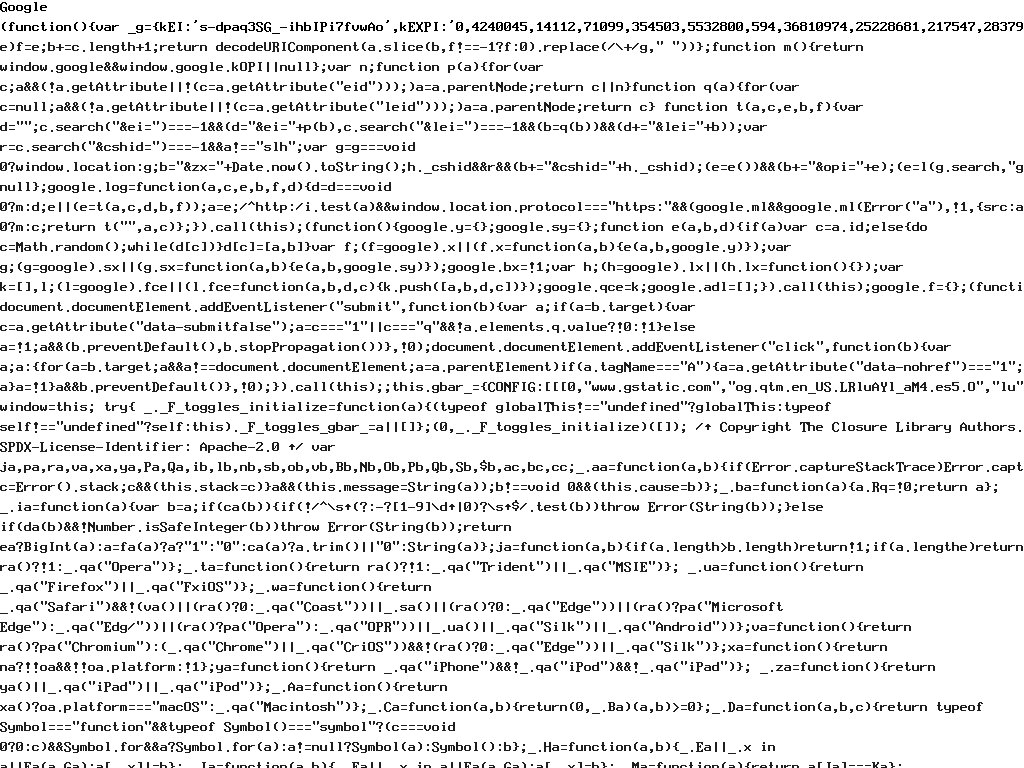
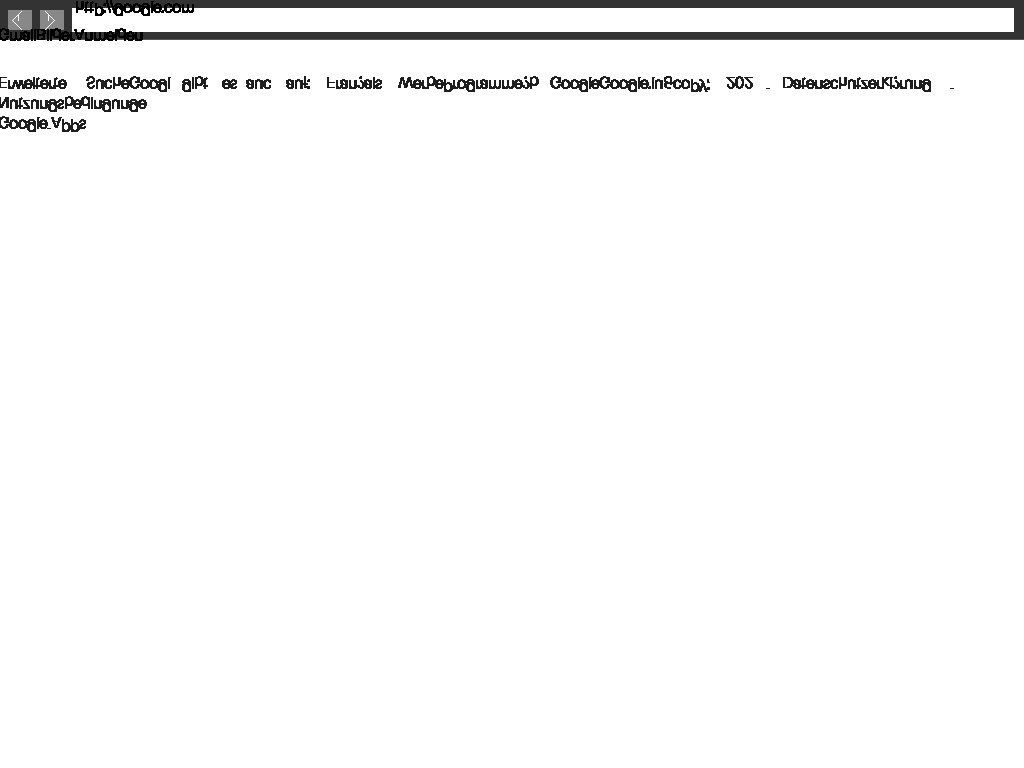
Fix renderer hiding script/style content, add browser UI to screenshots
- Add visible_text() to Node that skips script/style/head/title/meta/link/noscript
- Use visible_text() in layout_inline_children instead of text() to prevent
  JavaScript/CSS source code from leaking into rendered page content
- In layout_node, skip text nodes inside non-visible elements (zero-height boxes)
- In layout_node, skip element nodes for script/style/head/title/meta/link/noscript
  (zero-height boxes, no recursion into children)
- Add draw_browser_ui() to renderer: dark gray top bar with back/forward buttons
  and white address bar showing the URL
- Add screenshot_url_ member and set_screenshot_url() setter to Renderer
- render_to_ppm() now draws UI bar then renders content with y-offset of 40px
- main.cpp passes URL to renderer before taking screenshot
- New screenshots confirm: no JS/CSS code visible, browser UI present

diff --git a/src/renderer.cpp b/src/renderer.cpp
@@ -1456,6 +1456,64 @@ void Renderer::render_to_stdout(const Box& root) {
 // with: convert screenshot.ppm screenshot.png
 // =========================================================================
 
+// =========================================================================
+// draw_browser_ui - Draw browser chrome (address bar, nav buttons)
+// =========================================================================
+// TEACHING NOTE: A real browser has UI elements around the page content:
+// tab bar, address bar, back/forward buttons, menu, etc. For screenshots,
+// we draw a simplified browser frame so the screenshot looks like a browser
+// window, not just a raw page render.
+// =========================================================================
+
+void Renderer::draw_browser_ui(int width, int ui_height) {
+    // Top bar background: dark gray (#333333)
+    RenderColor bar_bg(0x33, 0x33, 0x33);
+    fill_rect(0, 0, width, ui_height, bar_bg);
+
+    // Back button (left side): light gray rect at x=8
+    RenderColor btn_color(0x88, 0x88, 0x88);
+    fill_rect(8, 10, 24, 20, btn_color);
+    // Draw a left-pointing arrow in white inside the back button
+    RenderColor arrow_white(255, 255, 255);
+    for (int i = 0; i < 10; i++) {
+        put_pixel_internal(12 + i, 20 - i, arrow_white);
+        put_pixel_internal(12 + i, 20 + i, arrow_white);
+    }
+    for (int i = 0; i < 6; i++) {
+        put_pixel_internal(18, 20 - 5 + i, arrow_white);
+    }
+
+    // Forward button: light gray rect at x=40
+    fill_rect(40, 10, 24, 20, btn_color);
+    // Draw a right-pointing arrow in white inside the forward button
+    for (int i = 0; i < 10; i++) {
+        put_pixel_internal(54 - i, 20 - i, arrow_white);
+        put_pixel_internal(54 - i, 20 + i, arrow_white);
+    }
+    for (int i = 0; i < 6; i++) {
+        put_pixel_internal(48, 20 - 5 + i, arrow_white);
+    }
+
+    // Address bar: white rect from x=72 to width-10
+    RenderColor addr_bg(255, 255, 255);
+    int addr_x = 72;
+    int addr_y = 8;
+    int addr_w = width - addr_x - 10;
+    int addr_h = 24;
+    fill_rect(addr_x, addr_y, addr_w, addr_h, addr_bg);
+
+    // URL text in the address bar (black text)
+    if (!screenshot_url_.empty()) {
+        // Truncate URL if too long for the address bar
+        int max_url_width = addr_w - 10;
+        draw_text(addr_x + 5, addr_y + 4, screenshot_url_, RenderColor::black(), max_url_width);
+    }
+
+    // Thin separator line below the UI bar
+    RenderColor sep(0x55, 0x55, 0x55);
+    fill_rect(0, ui_height - 1, width, 1, sep);
+}
+
 void Renderer::render_to_ppm(const Box& root, const std::string& filename,
                                int width, int height) {
     // Create an off-screen RGB buffer
@@ -1481,8 +1539,18 @@ void Renderer::render_to_ppm(const Box& root, const std::string& filename,
     fb_info_.smem_len = width * height * 3;
     initialized_ = true;
 
-    // Render the box tree to our virtual framebuffer
-    render(root);
+    // Draw the browser UI frame at the top
+    // TEACHING NOTE: We draw a simplified browser chrome with:
+    //   - Dark gray top bar (40px tall)
+    //   - Back/forward button shapes
+    //   - White address bar with the URL text
+    //   - Page content below the UI bar
+    const int ui_height = 40;
+    draw_browser_ui(width, ui_height);
+
+    // Render the page content below the UI bar
+    // We use render_box with a y-offset so content starts at ui_height
+    render_box(root, 0, ui_height);
 
     // Write PPM file
     std::ofstream out(filename, std::ios::binary);

diff --git a/src/layout.cpp b/src/layout.cpp
@@ -152,6 +152,26 @@ std::unique_ptr<Box> LayoutEngine::layout_node(const Node& node, float x, float 
 
     if (node.type == NodeType::Text) {
         // Text node
+        // TEACHING NOTE: Some HTML elements contain text that should
+        // never be displayed as visible page content. This includes
+        // <script>, <style>, <head>, <title>, <meta>, <link>, and
+        // <noscript>. We check the parent tag and create an invisible
+        // (zero-size, empty-text) box for text inside these elements.
+        // Without this check, the browser would render raw JavaScript
+        // and CSS source code as visible text on the page.
+        if (node.parent) {
+            const std::string& ptag = node.parent->tag_name;
+            if (ptag == "script" || ptag == "style" ||
+                ptag == "head" || ptag == "title" ||
+                ptag == "meta" || ptag == "link" ||
+                ptag == "noscript") {
+                box->type = Box::Type::Text;
+                box->text = "";
+                box->width = 0;
+                box->height = 0;
+                return box;
+            }
+        }
         box->type = Box::Type::Text;
         box->text = node.text_content;
         box->width = available_width;
@@ -178,6 +198,22 @@ std::unique_ptr<Box> LayoutEngine::layout_node(const Node& node, float x, float 
     }
 
     // Element node
+    // TEACHING NOTE: <script> and <style> elements should never produce
+    // visible boxes. Their text content is code (JavaScript or CSS), not
+    // page content. We create a zero-height box and do not recurse into
+    // children, so the code text never appears in the rendered output.
+    if (node.type == NodeType::Element) {
+        if (node.tag_name == "script" || node.tag_name == "style" ||
+            node.tag_name == "head" || node.tag_name == "title" ||
+            node.tag_name == "meta" || node.tag_name == "link" ||
+            node.tag_name == "noscript") {
+            box->type = Box::Type::Block;
+            box->width = 0;
+            box->height = 0;
+            return box;
+        }
+    }
+
     ComputedStyle style = StyleEngine::get_computed_style(node);
 
     // Determine if block or inline
@@ -322,8 +358,12 @@ void LayoutEngine::layout_inline_children(Box& parent_box, const Node& parent_no
     float current_x = parent_box.padding.left;
     float max_width = available_width - parent_box.padding.left - parent_box.padding.right;
 
-    // Collect text content and wrap
-    std::string text = parent_node.text();
+    // Collect visible text content and wrap
+    // TEACHING NOTE: We use visible_text() instead of text() because
+    // text() recursively collects ALL text including JavaScript inside
+    // <script> and CSS inside <style>. visible_text() skips those
+    // elements so raw code does not leak into the rendered page.
+    std::string text = parent_node.visible_text();
 
     // Simple word wrapping
     // TEACHING NOTE: We split text into words and place them one by one.

diff --git a/src/html_parser.cpp b/src/html_parser.cpp
@@ -57,6 +57,34 @@ std::string Node::text() const {
     return result;
 }
 
+// TEACHING NOTE: Some HTML elements contain text that should never be
+// displayed as visible page content. This includes <script> (JavaScript
+// source code), <style> (CSS rules), <head> (metadata), <title> (page
+// title shown in the tab bar, not the page), <meta>, <link>, and
+// <noscript>. The visible_text() method is like text() but skips these
+// elements entirely. This is used by the layout engine when collecting
+// inline text content, so that raw JavaScript and CSS code does not leak
+// into the rendered page.
+static bool is_non_visible_element(const Node& node) {
+    if (node.type != NodeType::Element) return false;
+    return node.tag_name == "script" || node.tag_name == "style" ||
+           node.tag_name == "head" || node.tag_name == "title" ||
+           node.tag_name == "meta" || node.tag_name == "link" ||
+           node.tag_name == "noscript";
+}
+
+std::string Node::visible_text() const {
+    std::string result;
+    if (type == NodeType::Text) {
+        result = text_content;
+    }
+    for (const auto& child : children) {
+        if (is_non_visible_element(*child)) continue;
+        result += child->visible_text();
+    }
+    return result;
+}
+
 const Node* Node::find_first(const std::string& tag) const {
     for (const auto& child : children) {
         if (child->type == NodeType::Element && child->tag_name == tag) {

diff --git a/src/renderer.hpp b/src/renderer.hpp
@@ -183,6 +183,9 @@ public:
     // any image encoding library. We can convert PPM to PNG with tools.
     void render_to_ppm(const Box& root, const std::string& filename, int width = 1024, int height = 768);
 
+    // Set the URL to display in the browser UI frame (for screenshots)
+    void set_screenshot_url(const std::string& url) { screenshot_url_ = url; }
+
 private:
     int fb_fd_ = -1;
     FramebufferInfo fb_info_;
@@ -219,6 +222,12 @@ private:
     // TTF font instance (null if TTF loading failed)
     std::unique_ptr<class Font> ttf_font_;
     bool ttf_available_ = false;
+
+    // URL to display in the browser UI frame (for screenshots)
+    std::string screenshot_url_;
+
+    // Draw the browser UI frame (address bar, nav buttons) at the top
+    void draw_browser_ui(int width, int ui_height);
 };
 
 } // namespace chinstrap

diff --git a/src/html_parser.hpp b/src/html_parser.hpp
@@ -119,6 +119,11 @@ public:
     // Get all text content (recursive)
     std::string text() const;
 
+    // Get visible text content (recursive, but skips script/style/
+    // head/title/meta/link/noscript elements whose text should never
+    // appear as rendered page content)
+    std::string visible_text() const;
+
     // Find first child element with tag name
     const Node* find_first(const std::string& tag) const;
 

diff --git a/src/main.cpp b/src/main.cpp
@@ -366,6 +366,7 @@ int main(int argc, char* argv[]) {
     if (!args.screenshot_path.empty()) {
         std::cout << "  Saving screenshot to " << args.screenshot_path
                   << "..." << std::endl;
+        renderer.set_screenshot_url(url_string);
         renderer.render_to_ppm(*root_box, args.screenshot_path,
                                 config.viewport_width, config.viewport_height);
         return 0;
